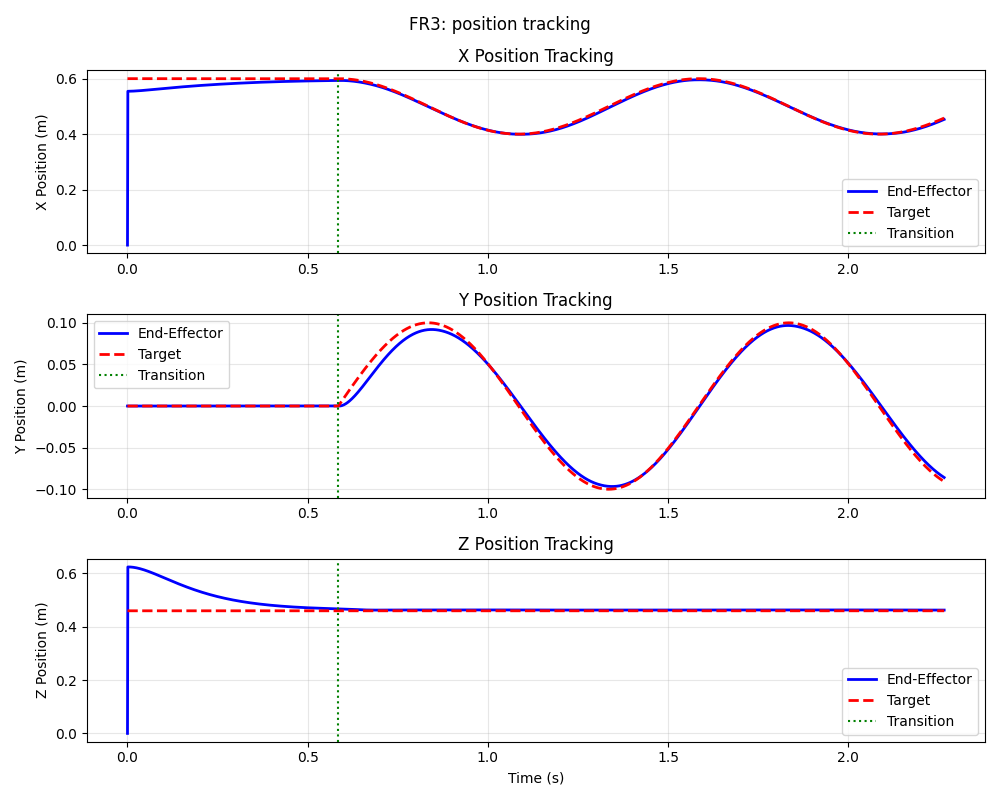
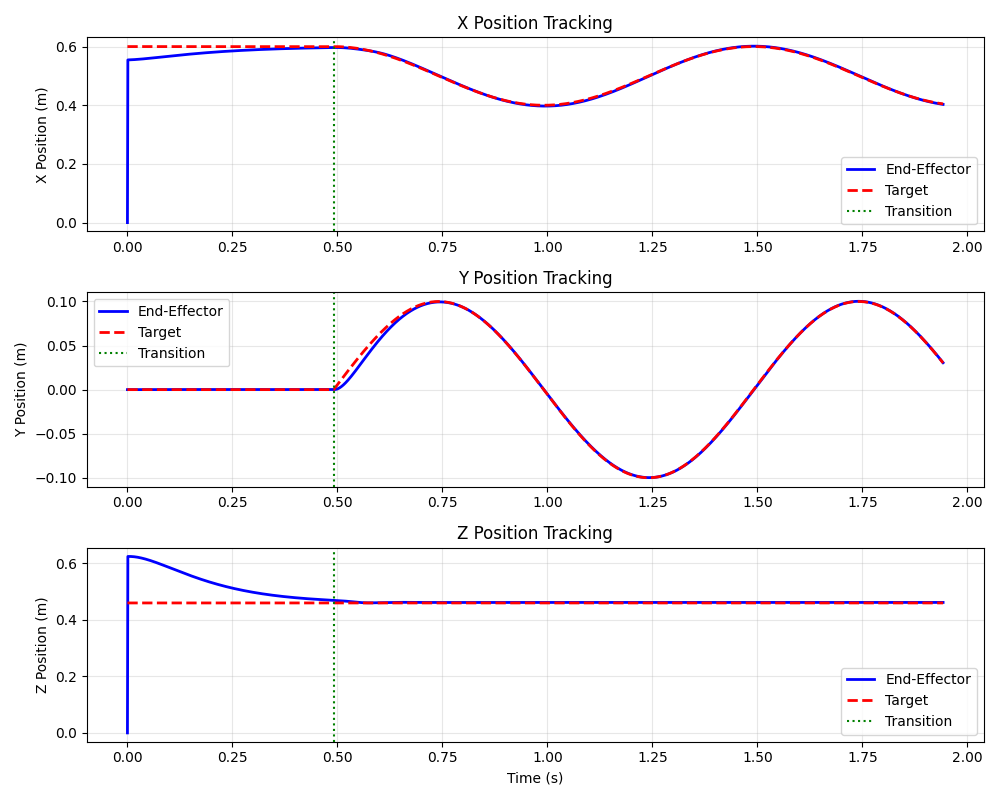
imp_pos and ori param investigation

diff --git a/run_hybrid_control_mujoco.py b/run_hybrid_control_mujoco.py
@@ -26,117 +26,85 @@ from utils_libfranka import euler_to_rot_matrix, generate_start_position
 from mujoco_robot_interface import MujocoRobotInterface, Torques
 
 
-# def plot_hybrid_results(
-#     approach_controller: CartesianSpacePDController,
-#     hybrid_controller: HybridController,
-#     dt: float,
-#     transition_time: float,
-#     robot_name: str
-# ) -> None:
-#     """Plot results from both controllers."""
+def plot_hybrid_results(
+    hybrid_controller: HybridController,
+    dt: float,
+    robot_name: str
+) -> None:
+    """Plot results from both controllers."""
 
-#     # Combine data from both controllers
-#     all_ee_pos = approach_controller.ee_positions + hybrid_controller.ee_positions
-#     all_target_pos = approach_controller.target_positions + hybrid_controller.target_positions
+    plot_dir = "mj_ctrl/plots/sim/circle/force"
 
-#     # ============================================================
-#     # Plot Position Tracking
-#     # ============================================================
-#     if len(all_ee_pos) > 0:
-#         ee_positions = np.array(all_ee_pos)
-#         target_positions = np.array(all_target_pos)
-#         time_steps = np.arange(len(ee_positions)) * dt
+    # ============================================================
+    # Plot Contact Forces (Hybrid Phase Only)
+    # ============================================================
+    contact_forces = np.array(hybrid_controller.contact_forces)
+    desired_forces = np.array(hybrid_controller.desired_forces)
 
-#         fig, axes = plt.subplots(3, 1, figsize=(10, 8))
-#         axes_labels = ['X', 'Y', 'Z']
+    if len(contact_forces) > 0:
+        if contact_forces.ndim == 1:
+            contact_forces = contact_forces[:, None]
+            desired_forces = desired_forces[:, None]
 
-#         for i in range(3):
-#             axes[i].plot(time_steps, ee_positions[:, i], 'b-', linewidth=2, label='End-Effector')
-#             axes[i].plot(time_steps, target_positions[:, i], 'r--', linewidth=2, label='Target')
-#             if transition_time > 0:
-#                 axes[i].axvline(transition_time, color='g', linestyle=':', label='Transition')
-#             axes[i].set_ylabel(f'{axes_labels[i]} Position (m)')
-#             axes[i].legend()
-#             axes[i].grid(True, alpha=0.3)
-#             axes[i].set_title(f'{axes_labels[i]} Position Tracking')
+        timesteps, n_dim = contact_forces.shape
+        t = np.arange(timesteps) * dt
 
-#         axes[2].set_xlabel('Time (s)')
-#         fig.suptitle(f'{robot_name.upper()}: Hybrid Control - Position Tracking')
-#         plt.tight_layout()
-#         fig.savefig(f"plots/hybrid_position_tracking_{robot_name}.png")
+        fig = plt.figure(figsize=(8, 3 * n_dim))
+        for i in range(n_dim):
+            plt.subplot(n_dim, 1, i + 1)
+            plt.plot(t, contact_forces[:, i], label="Contact force")
+            plt.plot(t, desired_forces[:, 0], label="Desired force")
+            plt.ylabel(f"Dim {i + 1}")
+            plt.xlabel("Time [s]")
+            plt.legend()
+            plt.grid(True)
+        fig.suptitle(f'{robot_name.upper()}: Contact Forces')
+        plt.tight_layout()
+        plt.savefig(f"{plot_dir}/hybrid_contact_forces_{robot_name}.png")
 
-#     # ============================================================
-#     # Plot Contact Forces (Hybrid Phase Only)
-#     # ============================================================
-#     contact_forces = np.array(hybrid_controller.contact_forces)
-#     desired_forces = np.array(hybrid_controller.desired_forces)
+    # ============================================================
+    # Plot Force Decomposition Components
+    # ============================================================
+    if (hasattr(hybrid_controller, 'control_force_compensation_arr') and
+        len(hybrid_controller.control_force_compensation_arr) > 0):
 
-#     if len(contact_forces) > 0:
-#         if contact_forces.ndim == 1:
-#             contact_forces = contact_forces[:, None]
-#             desired_forces = desired_forces[:, None]
+        control_comp = np.array(hybrid_controller.control_force_compensation_arr)
+        contact_comp = np.array(hybrid_controller.contact_force_compensation_arr)
+        velocity_term = np.array(hybrid_controller.velocity_term_arr)
+        f_ctrl_constraint = np.array(hybrid_controller.F_ctrl_constraint_arr)
 
-#         timesteps, n_dim = contact_forces.shape
-#         t = np.arange(timesteps) * dt + transition_time
+        timesteps = len(control_comp)
+        t = np.arange(timesteps) * dt
 
-#         fig = plt.figure(figsize=(8, 3 * n_dim))
-#         for i in range(n_dim):
-#             plt.subplot(n_dim, 1, i + 1)
-#             plt.plot(t, contact_forces[:, i], label="Contact force")
-#             plt.plot(t, desired_forces[:, 0], label="Desired force")
-#             plt.ylabel(f"Dim {i + 1}")
-#             plt.xlabel("Time [s]")
-#             plt.legend()
-#             plt.grid(True)
-#         fig.suptitle(f'{robot_name.upper()}: Contact Forces')
-#         plt.tight_layout()
-#         plt.savefig(f"plots/hybrid_contact_forces_{robot_name}.png")
+        # Determine number of dimensions
+        if control_comp.ndim == 1:
+            n_dim = 1
+            control_comp = control_comp[:, None]
+            contact_comp = contact_comp[:, None]
+            velocity_term = velocity_term[:, None]
+            f_ctrl_constraint = f_ctrl_constraint[:, None]
+        else:
+            n_dim = control_comp.shape[1]
 
-#     # ============================================================
-#     # Plot Force Decomposition Components
-#     # ============================================================
-#     if (hasattr(hybrid_controller, 'control_force_compensation_arr') and
-#         len(hybrid_controller.control_force_compensation_arr) > 0):
+        fig, axes = plt.subplots(n_dim, 1, figsize=(12, 3 * n_dim))
+        if n_dim == 1:
+            axes = [axes]
 
-#         control_comp = np.array(hybrid_controller.control_force_compensation_arr)
-#         contact_comp = np.array(hybrid_controller.contact_force_compensation_arr)
-#         velocity_term = np.array(hybrid_controller.velocity_term_arr)
-#         f_ctrl_constraint = np.array(hybrid_controller.F_ctrl_constraint_arr)
+        for i in range(n_dim):
+            axes[i].plot(t, control_comp[:, i], label='Control Force Compensation', linewidth=2)
+            axes[i].plot(t, contact_comp[:, i], label='Contact Force Compensation', linewidth=2)
+            axes[i].plot(t, velocity_term[:, i], label='Velocity Term', linewidth=2)
+            axes[i].plot(t, f_ctrl_constraint[:, i], label='F_ctrl Constraint', linewidth=2)
+            axes[i].set_ylabel(f'Force Dim {i + 1} (N)')
+            axes[i].legend(loc='best')
+            axes[i].grid(True, alpha=0.3)
+            axes[i].set_title(f'Force Decomposition - Dimension {i + 1}')
 
-#         timesteps = len(control_comp)
-#         t = np.arange(timesteps) * dt + transition_time
-
-#         # Determine number of dimensions
-#         if control_comp.ndim == 1:
-#             n_dim = 1
-#             control_comp = control_comp[:, None]
-#             contact_comp = contact_comp[:, None]
-#             velocity_term = velocity_term[:, None]
-#             f_ctrl_constraint = f_ctrl_constraint[:, None]
-#         else:
-#             n_dim = control_comp.shape[1]
-
-#         fig, axes = plt.subplots(n_dim, 1, figsize=(12, 3 * n_dim))
-#         if n_dim == 1:
-#             axes = [axes]
-
-#         for i in range(n_dim):
-#             axes[i].plot(t, control_comp[:, i], label='Control Force Compensation', linewidth=2)
-#             axes[i].plot(t, contact_comp[:, i], label='Contact Force Compensation', linewidth=2)
-#             axes[i].plot(t, velocity_term[:, i], label='Velocity Term', linewidth=2)
-#             axes[i].plot(t, f_ctrl_constraint[:, i], label='F_ctrl Constraint', linewidth=2)
-#             axes[i].set_ylabel(f'Force Dim {i + 1} (N)')
-#             axes[i].legend(loc='best')
-#             axes[i].grid(True, alpha=0.3)
-#             axes[i].set_title(f'Force Decomposition - Dimension {i + 1}')
-
-#         axes[-1].set_xlabel('Time (s)')
-#         fig.suptitle(f'{robot_name.upper()}: Force Decomposition')
-#         plt.tight_layout()
-#         fig.savefig(f"plots/hybrid_force_decomposition_{robot_name}.png")
-
-#     plt.show()
-#     print(f"[PLOT] Results saved to plots/ directory")
+        axes[-1].set_xlabel('Time (s)')
+        fig.suptitle(f'{robot_name.upper()}: Force Decomposition')
+        plt.tight_layout()
+        fig.savefig(f"{plot_dir}/hybrid_force_decomposition_{robot_name}.png")
+    print(f"[PLOT] Results saved to plots/ directory")
 
 
 def main() -> None:
@@ -321,6 +289,7 @@ def main() -> None:
             plot_joint_torques(hybrid_controller, "joint_g_torques", common_config.dt, plot_dir="mj_ctrl/plots/sim/circle")
             plot_ee_positions(hybrid_controller, common_config.dt, plot_dir="mj_ctrl/plots/sim/circle")
             plot_control_torques(hybrid_controller, common_config.dt, plot_dir="mj_ctrl/plots/sim/circle")
+            plot_hybrid_results(hybrid_controller, common_config.dt, robot_cfg.name)
             print("\n[MAIN] Hybrid control finished")
         print(f"Total time: {sim_time:.2f}s")
 

diff --git a/hybrid_slope_panda_pin_api.py b/hybrid_slope_panda_pin_api.py
@@ -116,9 +116,9 @@ class CartesianSpacePDControlConfig:
 
     def __post_init__(self):
         if self.impedance_pos is None:
-            self.impedance_pos = np.asarray([50.0, 50.0, 50.0]) * 0.2
+            self.impedance_pos = np.asarray([100.0, 100.0, 100.0])
         if self.impedance_ori is None:
-            self.impedance_ori = np.asarray([25.0, 25.0, 25.0]) * 0.2
+            self.impedance_ori = np.asarray([50.0, 50.0, 50.0])
         if self.Kp is None:
             self.Kp = np.concatenate([self.impedance_pos, self.impedance_ori], axis=0)
         if  self.Kd is None:
@@ -127,7 +127,7 @@ class CartesianSpacePDControlConfig:
             damping_ori = damping_ratio * 2 * np.sqrt(self.impedance_ori)
             self.Kd = np.concatenate([damping_pos, damping_ori], axis=0)
         if self.Kp_null is None:
-            self.Kp_null = np.asarray([75.0, 75.0, 50.0, 50.0, 40.0, 25.0, 25.0]) * 0.2
+            self.Kp_null = np.asarray([75.0, 75.0, 50.0, 50.0, 40.0, 25.0, 25.0])
         if self.Kd_null is None:
             damping_ratio = 1.0
             self.Kd_null = damping_ratio * 2 * np.sqrt(self.Kp_null)
@@ -154,11 +154,11 @@ class HybridControllerConfig:
 
     def __post_init__(self):
         if self.impedance_pos is None:
-            self.impedance_pos = np.asarray([50.0, 50.0, 50.0]) * 0.2
+            self.impedance_pos = np.asarray([500.0, 500.0, 500.0])
         if self.impedance_ori is None:
-            self.impedance_ori = np.asarray([25.0, 25.0, 25.0]) * 0.2
+            self.impedance_ori = np.asarray([250.0, 250.0, 250.0])
         if self.Kp_null is None:
-            self.Kp_null = np.asarray([75.0, 75.0, 50.0, 50.0, 40.0, 25.0, 25.0]) * 0.2
+            self.Kp_null = np.asarray([75.0, 75.0, 50.0, 50.0, 40.0, 25.0, 25.0])
             self.Kd_null = self.damping_ratio * 2 * np.sqrt(self.Kp_null)
         if self.F_desired_contact is None:
             self.F_desired_contact = np.array([-10.0])
@@ -239,14 +239,13 @@ class CartesianSpacePDController:
         O_T_EE = np.array(robot_state.O_T_EE).reshape(4, 4).T
         current_pos = O_T_EE[:3, 3]
         current_mat = O_T_EE[:3, :3]
-        twist = compute_ee_pose_error(
+        twist = compute_ee_pose_error_quat(
             self.target_pos,
             current_pos,
             self.target_quat,
             current_mat.flatten(),
             Kpos=self.config.Kpos
         )
-
 
         # ============================================================
         # 2. Compute Jacobian
@@ -290,8 +289,7 @@ class CartesianSpacePDController:
         # ============================================================
         # Use Pinocchio to compute gravity
         if self.common_config.gravity_compensation:
-            g_ctrl = pino.computeGeneralizedGravity(self.pino_model, self.pino_data, q)
-            self.tau += g_ctrl
+            self.tau += pino.computeGeneralizedGravity(self.pino_model, self.pino_data, q)
 
         # ============================================================
         # 7. Log Data
@@ -510,7 +508,7 @@ class HybridController:
         # Motion Space
         #----------------------------------------------------
         # Compute the motion-space inertia matrix for x-y plane
-        twist = compute_ee_pose_error(
+        twist = compute_ee_pose_error_quat(
                     self.target_pos, 
                     current_pos,
                     self.target_quat,

diff --git a/src/hybrid_controller.py b/src/hybrid_controller.py
@@ -136,7 +136,7 @@ class HybridControllerConfig:
             damping_ori = damping_ratio * 2 * np.sqrt(self.impedance_ori)
             self.Kd = np.concatenate([damping_pos, damping_ori], axis=0)
         if self.Kp_null is None:
-            self.Kp_null = np.asarray([75.0, 75.0, 50.0, 50.0, 40.0, 25.0, 25.0]) * 0.2
+            self.Kp_null = np.asarray([75.0, 75.0, 50.0, 50.0, 40.0, 25.0, 25.0])
         if self.Kd_null is None:
             damping_ratio = 1.0
             self.Kd_null = damping_ratio * 2 * np.sqrt(self.Kp_null)
@@ -434,7 +434,7 @@ class HybridController:
         # ============================================================
         # 9. Log Data
         # ============================================================
-        # self._log_data(current_force_local, current_pos)
+        self._log_force_data(current_force_local)
         self.ee_positions.append(current_pos.copy())
         self.target_positions.append(self.target_pos.copy())
         self.joint_g_torques.append(self.tau.copy())
@@ -444,13 +444,10 @@ class HybridController:
 
         return self.tau
 
-    def _log_data(self, F_ext_local: np.ndarray, current_pos: np.ndarray) -> None:
+    def _log_force_data(self, F_ext_local: np.ndarray) -> None:
         """Log data for plotting."""
         self.contact_forces.append(F_ext_local[:3].copy())
         self.desired_forces.append(-self.config.F_desired_contact.copy())
-        self.ee_positions.append(current_pos.copy())
-        self.target_positions.append(self.target_pos.copy())
-
         if hasattr(self, '_last_control_compensation'):
             self.control_force_compensation_arr.append(self._last_control_compensation.copy())
             self.contact_force_compensation_arr.append(self._last_contact_compensation.copy())

diff --git a/utils_libfranka.py b/utils_libfranka.py
@@ -73,6 +73,23 @@ def euler_to_rot_matrix(euler):
     
     return R_z @ R_y @ R_x
 
+def compute_ee_pose_error_quat(target_pos, current_pos, target_quat, current_mat, Kpos=0.95, Kori=0.95):
+    twist = np.zeros(6)
+    Kori: float = 0.95
+    dx = target_pos - current_pos
+    twist[:3] = Kpos * dx
+
+    if np.all(current_mat == 0):
+        rot_current = Rotation.from_matrix(np.eye(3))
+    else:
+        rot_current = Rotation.from_matrix(current_mat.reshape(3,3))
+    rot_target = Rotation.from_quat(np.roll(target_quat, -1))
+    
+    R_error = rot_target * rot_current.inv()
+    twist[3:] = Kori * R_error.as_rotvec()
+
+    return twist
+
 def compute_ee_pose_error(target_pos, current_pos, target_rot, current_mat, Kpos=0.95, Kori=0.95):
     twist = np.zeros(6)
     # site_quat = np.zeros(4)

diff --git a/hybrid_slope_fr3_pin_api.py b/hybrid_slope_fr3_pin_api.py
@@ -239,7 +239,7 @@ class CartesianSpacePDController:
         O_T_EE = np.array(robot_state.O_T_EE).reshape(4, 4).T
         current_pos = O_T_EE[:3, 3]
         current_mat = O_T_EE[:3, :3]
-        twist = compute_ee_pose_error(
+        twist = compute_ee_pose_error_quat(
             self.target_pos,
             current_pos,
             self.target_quat,
@@ -508,7 +508,7 @@ class HybridController:
         # Motion Space
         #----------------------------------------------------
         # Compute the motion-space inertia matrix for x-y plane
-        twist = compute_ee_pose_error(
+        twist = compute_ee_pose_error_quat(
                     self.target_pos, 
                     current_pos,
                     self.target_quat,

diff --git a/hybrid_slope_kuka_pin_api.py b/hybrid_slope_kuka_pin_api.py
@@ -239,7 +239,7 @@ class CartesianSpacePDController:
         O_T_EE = np.array(robot_state.O_T_EE).reshape(4, 4).T
         current_pos = O_T_EE[:3, 3]
         current_mat = O_T_EE[:3, :3]
-        twist = compute_ee_pose_error(
+        twist = compute_ee_pose_error_quat(
             self.target_pos,
             current_pos,
             self.target_quat,
@@ -508,7 +508,7 @@ class HybridController:
         # Motion Space
         #----------------------------------------------------
         # Compute the motion-space inertia matrix for x-y plane
-        twist = compute_ee_pose_error(
+        twist = compute_ee_pose_error_quat(
                     self.target_pos, 
                     current_pos,
                     self.target_quat,
